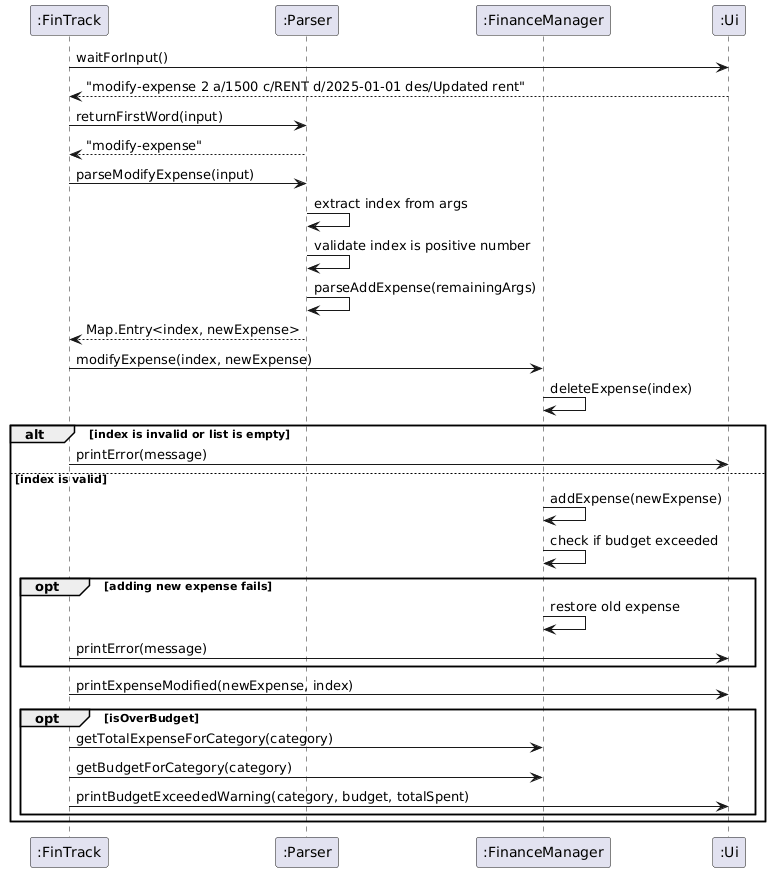
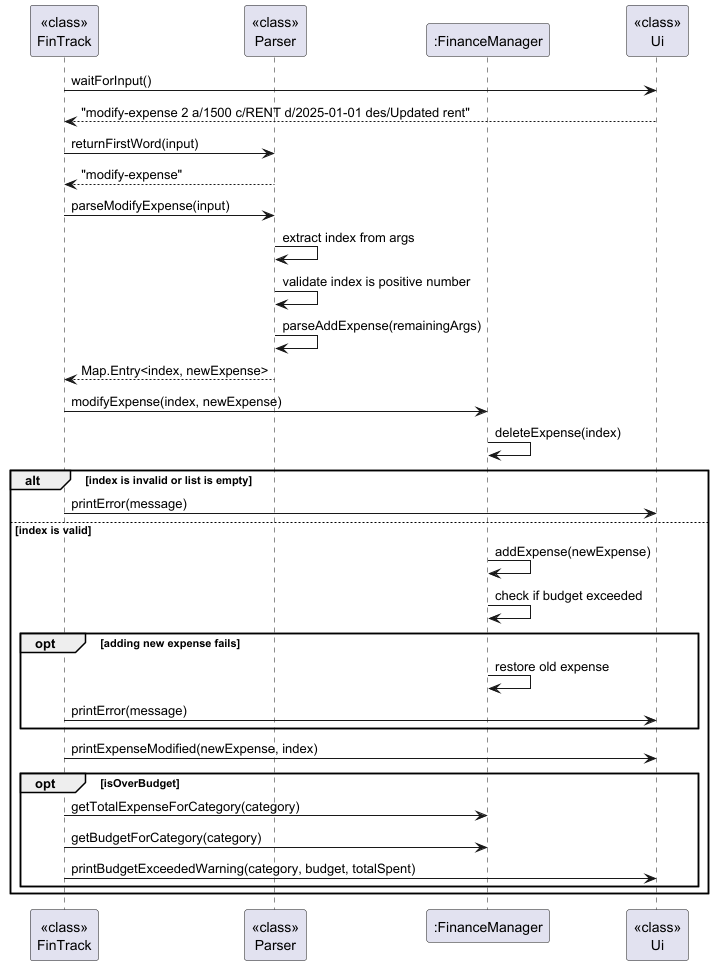
Add persistence section under implementation in DG, update UML diagrams

Changed region(s): [[0.0, 0.0, 1.0, 1.0], [0.5854, 0.0, 0.8011, 0.0619]]

diff --git a/docs/DeveloperGuide.md b/docs/DeveloperGuide.md
@@ -12,6 +12,7 @@
   - [Feature: Monthly Filtering](#monthly-filtering-balance-list-expense-list-income)
   - [Feature: Budget](#budget-budget-list-budget-and-delete-budget)
   - [Feature: Summary](#summary-summary-expense-and-summary-income)
+  - [Feature: Persistence](#persistence-via-plaintextstorage)
   - [Feature: Export](#export-export)
   - [Feature: Modify](#modify-modify-expense-and-modify-income)
 - [Appendix A: Product Scope](#appendix-a-product-scope)
@@ -58,12 +59,13 @@ how they depend on one another.
       text interpret CLI syntax the same way.
     - `Ui` centralises every user-facing token and message so other modules don't need to print directly to the console.
     - `FinanceManager` encapsulates all business logic, exposing the operations the rest of the app calls to manipulate/query financial data.
+    - `PlainTextStorage` performs automatic load/save of the session data (`fintrack-data.txt`) before and after the command loop.
     - `CsvStorage` implements the `Storage` interface, handling exporting financial data to CSV format. `FinTrack` instantiates it by default when handling the `export`
       command.
 
 How the `FinTrack` component works:
 
-1. The application starts by welcoming the user (via `Ui.printWelcome()`) and initialising the `FinanceManager`, which holds the application's state (all incomes, expenses and budgets).
+1. The application starts by initialising the `FinanceManager` (which holds the application's state e.g. incomes, expenses) and asking `PlainTextStorage` to populate it from the default persistence file (if present). The application proceeds to print the welcome banner (via `Ui.printWelcome()`).
 2. It waits for user input using `Ui.waitForInput()`.
 3. The input is parsed as follows:
     - The command word (e.g. `add-expense`) is extracted using `Parser.returnFirstWord()`.
@@ -76,8 +78,9 @@ How the `FinTrack` component works:
     - Any `IllegalArgumentException` or `IndexOutOfBoundsException` (from `Parser` or `FinanceManager`) is caught within the loop. The error message is retrieved (`e.getMessage()`)
       and printed to the user via `Ui.printError()`.
 5. The loop continues until the user enters the `bye` command (`Ui.EXIT_COMMAND`).
+6. Before exiting, `FinTrack` calls `PlainTextStorage.save(...)` to save financial data to `fintrack-data.txt` when permissions allow writing.
 
-The above flow is illustrated by the sequence diagram below, showing how the `add-expense` command is processed.
+The above flow is illustrated by the sequence diagram below, showing how the `add-expense` command is processed. Persistence is omitted for simplicity.
 
 ![add_expense.png](images/add_expense.png)
 
@@ -324,6 +327,23 @@ Below is a sequence diagram to illustrate how summary-expense works:
 
 - One thing we considered was how to implement this as simply as possible. While we recognise that the current implementation has a data-hungry implementation in a HashMap, it was also the simplest solution.
 - This solution also helps to reduce coupling and improve testing of the implementation.
+
+### Persistence (via `PlainTextStorage`)
+The persistence feature keeps user data across runs by reading/writing a plaintext file (`fintrack-data.txt`). `FinTrack.main()` orchestrates when to load and save, while `PlainTextStorage` performs the actual file I/O.
+
+Here is how the persistence workflow operates:
+1. On startup, `FinTrack` instantiates `PlainTextStorage`, resolves the default data path, checks write access, and calls `load(...)` to populate `FinanceManager` if the file exists. If the location cannot be written to, it immediately surfaces `Ui.printPersistenceWarning(...)` so the user knows autosave is disabled for the session.
+2. While the REPL runs, FinTrack enforces ASCII-only input and blocks the `|` character so every command can be safely persisted using the pipe-delimited format.
+3. When the user exits `bye`, `save(...)` serialises all incomes, expenses, and budgets. The method writes to a temporary file first and replaces the target atomically. If saving fails (e.g., read-only directory), a banner is printed but, at that point, the session has already ended—users need to rely on a prior CSV export as the fallback.
+4. Tests disable the feature entirely by setting `fintrack.disablePersistence=true`, which keeps automated runs isolated from the developer’s filesystem.
+
+Below is a sequence diagram summarising the lifecycle:
+![persistence_sequence.png](images/persistence_sequence.png)
+
+#### Design Considerations
+- Segregating persistence logic into `PlainTextStorage` keeps `FinanceManager` focused on business rules.
+- Using a simple, human-readable format facilitates debugging while temporary files avoid partial writes.
+- The system degrades gracefully: when the directory is not writable the CLI still works, relying on CSV export as a fallback option for users.
 
 ### Export (`export`)
 The export feature allows users to export all their financial data (incomes and expenses) to a CSV file for backup, analysis in spreadsheet applications, or record-keeping purposes.
